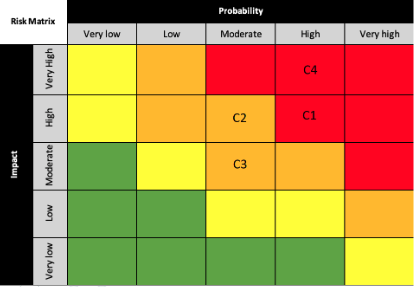
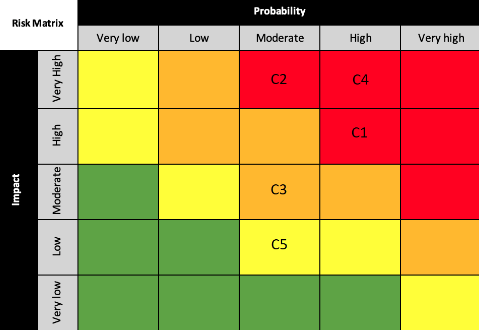
Mariia - updated website

diff --git a/deliverables.html b/deliverables.html
@@ -77,6 +77,8 @@
 
         <b>Nextdoor</b> - platform used to connect with your neighbors, discover new places nearby and find recommendations for local businesses.<br><br>
 
+        <b>City Websites: Virginia Beach</b> - platform that displays the city’s main attractions/features statically.<br><br>
+
       </p>
     </div>
 
@@ -120,6 +122,7 @@
         C2: Customer has discovered malicious group<br>
         C3: Customer finds someone misrepresenting group<br>
         C4:  Group chats become overrun with arguments<br>
+        C5: App navigation failure<br>
       </p>
     <div>
 

diff --git a/index.html b/index.html
@@ -25,7 +25,7 @@
     </div>
 
 
-    <img src="titleSlide.png" alt="titleSlide" style="width: 100%" />
+    <img src="titleSlide.jpg" alt="titleSlide" style="width: 100%" />
 
   </body>
 </html>
